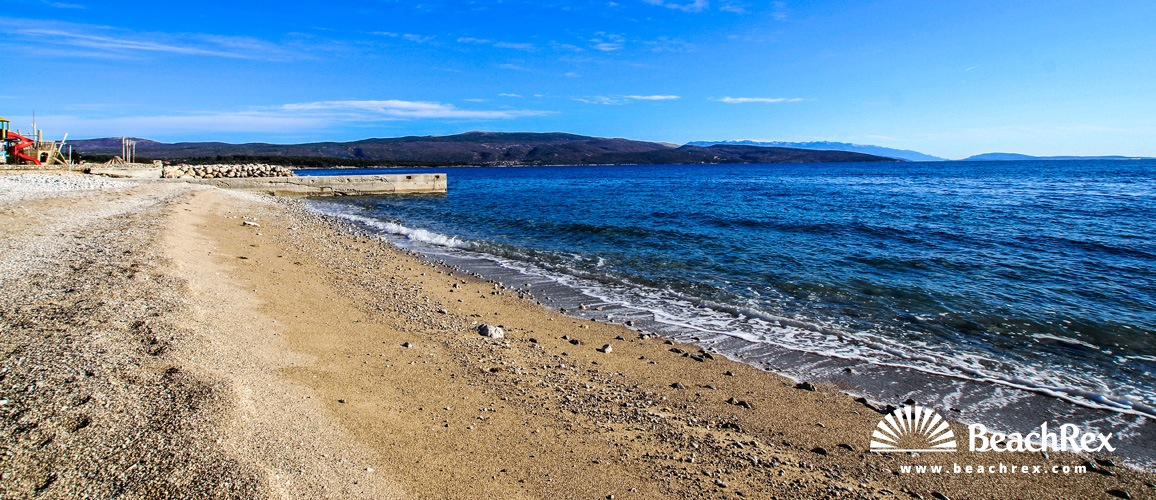
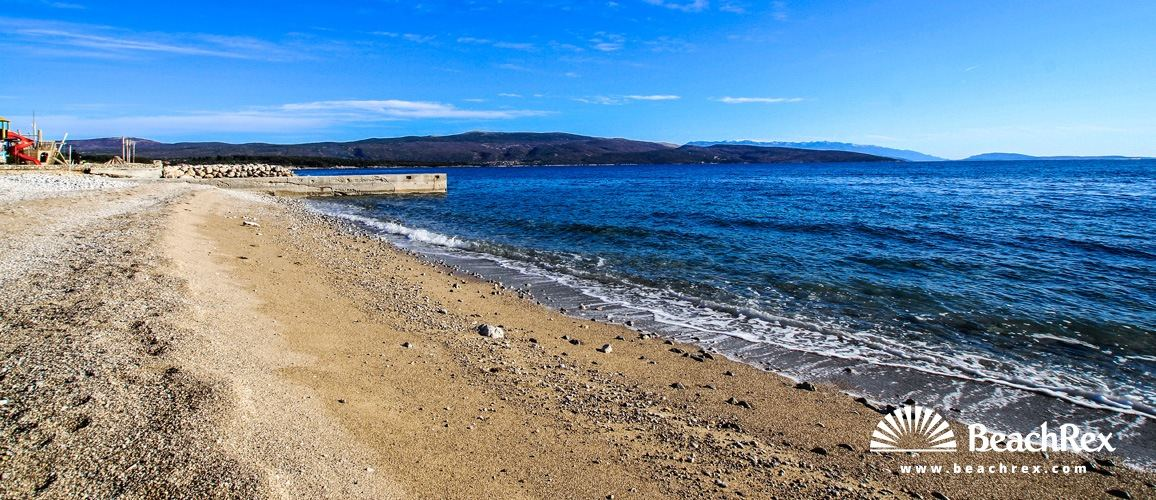
perf: lighter home images, preloaded hero, no priority on every card
Re-encode the 8 heavy images pages use (11.2 MB -> 0.8 MB), render the
home hero as a server-side next/image with priority instead of a CSS
background set after JS, and stop marking every destination card as
priority.

Claude-Session: https://claude.ai/code/session_01Y4yZ1K7doXoXu3QCyCvsLT

Changed region(s): [[0.0, 0.24, 0.0311, 0.3]]

diff --git a/src/components/Home/HeroSection.tsx b/src/components/Home/HeroSection.tsx
@@ -5,17 +5,19 @@ import React, { useMemo } from 'react';
 import { useContinents } from '@/hooks/useContinents';
 import { useCountries } from '@/hooks/useCountries';
 import { useHeroBanner } from '@/hooks/useFirstPageContent';
+import { heroBackgroundUrl } from '@/lib/utils/hero-image';
 import Link from 'next/link';
-import { buildCdnUrl } from '@/lib/utils/beach-images';
 import { buildContinentUrl } from '@/lib/utils/beach-urls';
 import { FEATURES } from '@/lib/constants/features';
 
 interface HeroSectionProps {
   /** Hero title rendered on the server, so the page's h1 is in the initial HTML (SEO). */
   initialTitle?: string;
+  /** Hero background URL computed on the server, so the browser can preload the LCP image. */
+  initialBackground?: string;
 }
 
-const HeroSection: React.FC<HeroSectionProps> = ({ initialTitle = '' }) => {
+const HeroSection: React.FC<HeroSectionProps> = ({ initialTitle = '', initialBackground = '' }) => {
   const t = useTranslations('HomePage');
   const tContinents = useTranslations('Continents');
   const locale = useLocale();
@@ -33,29 +35,23 @@ const HeroSection: React.FC<HeroSectionProps> = ({ initialTitle = '' }) => {
     return countries.length;
   }, [countries]);
 
-  // Get background image from API (now returns relative path, need to prepend CDN)
-  const backgroundImage = useMemo(() => {
-    if (heroBanner?.media && heroBanner.media.length > 0) {
-      // Try to find by collection first, then by is_primary, then just take first
-      const bgMedia = heroBanner.media.find(m => m.collection === 'background_image')
-        ?? heroBanner.media.find(m => m.is_primary)
-        ?? heroBanner.media[0];
-      const url = bgMedia?.url;
-      if (url) {
-        return buildCdnUrl(url, 'hero') ?? '';
-      }
-      return '';
-    }
-    return '';
-  }, [heroBanner]);
+  // Server-rendered URL first (LCP image in the initial HTML), then the client query
+  const backgroundImage = useMemo(
+    () => initialBackground || heroBackgroundUrl(heroBanner?.media),
+    [initialBackground, heroBanner],
+  );
 
   // Get hero title from API
   const heroTitle = heroBanner?.title ?? initialTitle;
   return (
-    <section
-      className="relative mx-auto h-[600px] min-h-[500px] w-full max-w-[1928px] bg-cover bg-center sm:h-[700px] lg:h-[798px]"
-      style={{ backgroundImage: `url('${backgroundImage}')` }}
-    >
+    <section className="relative mx-auto h-[600px] min-h-[500px] w-full max-w-[1928px] overflow-hidden sm:h-[700px] lg:h-[798px]">
+      {/* LCP image: a real <img> with priority (preloaded), not a CSS background found only after JS */}
+      {backgroundImage && (
+        <Image
+src={backgroundImage} alt="" fill
+priority sizes="100vw" className="object-cover object-center"
+        />
+      )}
       {/* Overlay */}
       <div className="absolute inset-0 bg-white/10" />
 

diff --git a/e2e/image-weight.unit.spec.ts b/e2e/image-weight.unit.spec.ts
@@ -1,0 +1,41 @@
+import { readFileSync, statSync } from 'fs';
+import { join } from 'path';
+import { test, expect } from '@playwright/test';
+
+process.env.SKIP_ENV_VALIDATION = '1';
+process.env.NEXT_PUBLIC_CDN_TEASER = 'https://s3.beachrex.com/unsafe/fit-in/800x800/';
+process.env.NEXT_PUBLIC_CDN_LARGE = 'https://s3.beachrex.com/unsafe/fit-in/2800x2800/';
+process.env.NEXT_PUBLIC_CDN_ASSETS = 'https://beachrex.fra1.digitaloceanspaces.com/public/';
+
+/**
+ * Performance audit 2026-10-09: the home page loaded ~10 MB of unresized JPEGs (`bazen.jpg` 3.4 MB) and the
+ * hero image was a CSS background set only after JavaScript and an extra API call; every destination card was
+ * `priority`, competing with the hero for bandwidth.
+ */
+const root = process.cwd();
+const kb = (p: string) => statSync(join(root, 'public', p)).size / 1024;
+
+test('images used by pages stay small', () => {
+  for (const p of ['images/categories/bazen.jpg', 'images/categories/river-beaches.jpg', 'images/categories/lake-beaches.jpg', 'images/categories/indoor-pool.jpg']) {
+    expect(kb(p), p).toBeLessThan(120);
+  }
+  for (const p of ['images/categories/sea-beaches.jpg', 'images/topdestination/spain.jpg', 'images/hvar.jpg', 'images/beachmedia/live-cam.jpg']) {
+    expect(kb(p), p).toBeLessThan(250);
+  }
+});
+
+test('hero image is server-rendered with priority; destination cards are not priority', () => {
+  const hero = readFileSync(join(root, 'src/components/Home/HeroSection.tsx'), 'utf8');
+  expect(hero).not.toContain('backgroundImage: `url(');
+  expect(hero).toMatch(/<Image[^>]*priority/);
+  expect(readFileSync(join(root, 'src/app/[locale]/page.tsx'), 'utf8')).toContain('initialBackground={heroBackgroundUrl(');
+  expect(readFileSync(join(root, 'src/components/DestinationCard.tsx'), 'utf8')).not.toMatch(/\bpriority\b(?!:)/);
+});
+
+test('hero background picks the background_image collection, then primary, then first', async () => {
+  const { heroBackgroundUrl } = await import('@/lib/utils/hero-image');
+  expect(heroBackgroundUrl(null)).toBe('');
+  expect(heroBackgroundUrl([{ url: 'a.jpg' }, { url: 'b.jpg', is_primary: true }, { url: 'c.jpg', collection: 'background_image' }])).toContain('c.jpg');
+  expect(heroBackgroundUrl([{ url: 'a.jpg' }, { url: 'b.jpg', is_primary: true }])).toContain('b.jpg');
+  expect(heroBackgroundUrl([{ url: 'a.jpg' }])).toContain('a.jpg');
+});

diff --git a/src/app/[locale]/page.tsx b/src/app/[locale]/page.tsx
@@ -14,6 +14,7 @@ import type { Metadata } from 'next';
 
 import BeachCategorySearch from '@/components/Home/BeachCategorySearch';
 import HeroSection from '@/components/Home/HeroSection';
+import { heroBackgroundUrl } from '@/lib/utils/hero-image';
 import HomeAccommodationSection from '@/components/Home/HomeAccommodationSection';
 import WorldMapSection from '@/components/Home/WorldMapSection';
 import BeachMediaSection from '../../components/Home/BeachMediaSection';
@@ -154,7 +155,10 @@ export default async function HomePage({ params }: PageProps) {
   return (
     <>
       {/* Hero Section */}
-      <HeroSection initialTitle={sections.hero_banner?.title ?? ''} />
+      <HeroSection
+        initialTitle={sections.hero_banner?.title ?? ''}
+        initialBackground={heroBackgroundUrl(sections.hero_banner?.media)}
+      />
 
       {/* World Map Section */}
       {browseMap && (

diff --git a/src/lib/utils/hero-image.ts b/src/lib/utils/hero-image.ts
@@ -1,0 +1,18 @@
+import { buildCdnUrl } from '@/lib/utils/beach-images';
+
+interface HeroMedia {
+  url?: string | null;
+  collection?: string | null;
+  is_primary?: boolean | null;
+}
+
+/**
+ * Home hero background from `first-page-content` (`hero_banner`): the `background_image` collection, else the
+ * primary media, else the first. Used on the server (so the image is in the initial HTML and preloaded) and in
+ * the client hero.
+ */
+export function heroBackgroundUrl(media: HeroMedia[] | null | undefined): string {
+  if (!media || media.length === 0) return '';
+  const bg = media.find((m) => m.collection === 'background_image') ?? media.find((m) => m.is_primary) ?? media[0];
+  return bg?.url ? (buildCdnUrl(bg.url, 'hero') ?? '') : '';
+}

diff --git a/e2e/seo-metadata.unit.spec.ts b/e2e/seo-metadata.unit.spec.ts
@@ -52,7 +52,7 @@ test('page titles are h1 elements; the beach details heading is not', () => {
   expect(read('src/components/Beach/BeachBanner/BeachTitleBlock.tsx')).toMatch(/<h1[\s\S]*?\{title\}[\s\S]*?<\/h1>/);
   expect(read('src/components/Home/HeroSection.tsx')).toMatch(/<h1[\s\S]*?\{heroTitle\}[\s\S]*?<\/h1>/);
   expect(read('src/components/Beach/BeachDetails/beachDetailsSection.tsx')).not.toMatch(/<h1/);
-  expect(read('src/app/[locale]/page.tsx')).toMatch(/<HeroSection initialTitle=/);
+  expect(read('src/app/[locale]/page.tsx')).toMatch(/<HeroSection\s+initialTitle=/);
 });
 
 test('beach map has its own metadata and an h1', () => {

diff --git a/src/components/DestinationCard.tsx b/src/components/DestinationCard.tsx
@@ -133,9 +133,13 @@ const flagUrl =
       onMouseLeave={handleMouseLeave}
     >
       <div className="relative w-full flex-1">
+        {/* No priority: these cards sit in carousels below the fold; only the banner image is preloaded */}
         <Image
-src={src} alt={name} fill
-className="object-cover" priority
+          src={src}
+          alt={name}
+          fill
+          sizes="(max-width: 640px) 85vw, (max-width: 1024px) 45vw, 25vw"
+          className="object-cover"
         />
 
         {badgeLabel && (

diff --git a/DEV_HANDOFF.md b/DEV_HANDOFF.md
@@ -18,6 +18,16 @@ All technical documentation is organized in the **[docs/](./docs/README.md)** fo
 
 ---
 
+## 2026-10-09 – Lighter images: home tiles, hero preloaded, no priority on every card ✅ COMPLETE
+
+Performance audit 2026-10-09: the home page downloaded ~10 MB of images.
+- Re-encoded the 8 heavy images the pages use (`next.config.js` has `images.unoptimized`, so files are served as they are): the 4 home category tiles (100 px tall, 10 % opacity) to 640 px wide, ~45 KB each (were 1.8–3.4 MB); `sea-beaches`, `spain` (destination fallback), `hvar` (continent search), `live-cam` to ~150 KB. Total 11.2 MB → 0.8 MB. Images nothing references were left as they are.
+- Home hero: the background URL is computed on the server (`heroBackgroundUrl`, `src/lib/utils/hero-image.ts`) and rendered as `<Image priority fill>`, so it is in the initial HTML and preloaded; before it was a CSS background set only after JavaScript and an extra API call.
+- `DestinationCard`: no `priority` on every card (dozens of preloads competed with the hero); `sizes` added.
+- Test: `e2e/image-weight.unit.spec.ts`.
+
+---
+
 ## 2026-10-09 – Pages are cached (ISR): served from cache instead of rendered on every visit ✅ COMPLETE
 
 Performance audit 2026-10-09 (owner: "da bi bila bliskovito hitra"): no `[locale]` page was ever cached, so every visit rendered the page on the server and called the API. Causes, all verified with `next build` + `next start` (`x-nextjs-cache` header):
